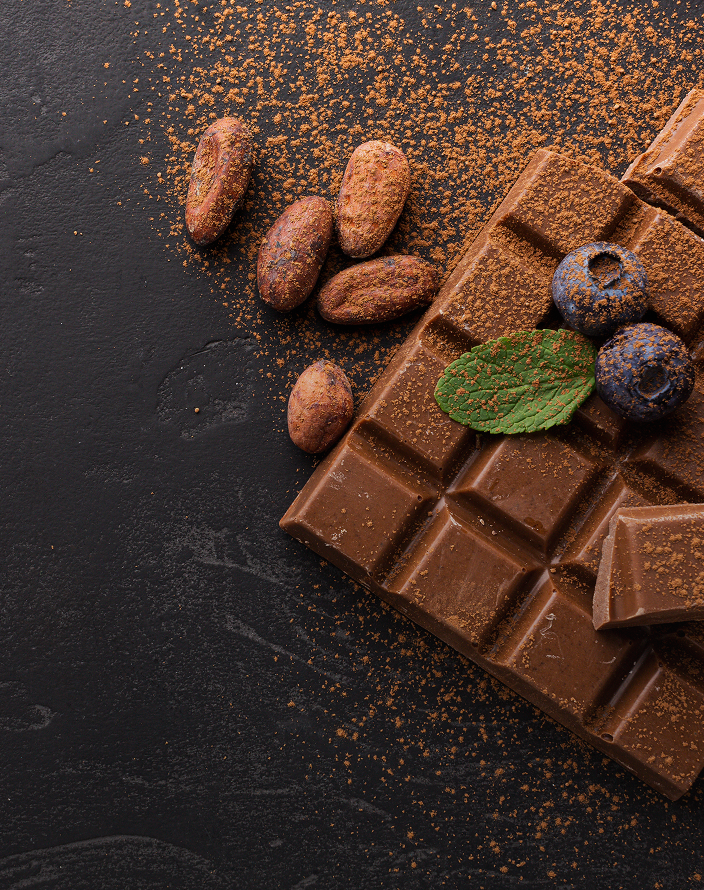
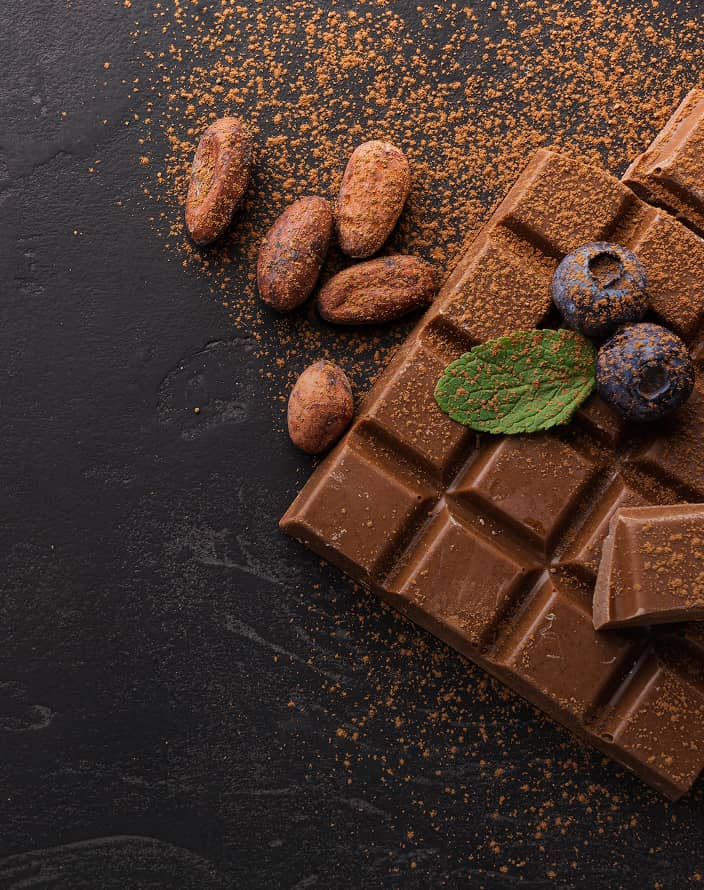
Updates

diff --git a/index.html b/index.html
@@ -1,1 +1,1 @@
-<!DOCTYPE html><html lang="en"><head><meta charset="utf-8"><meta name="viewport" content="width=device-width, initial-scale=1.0"><title>Simply Chocolate</title><link rel="preconnect" href="https://fonts.googleapis.com"><link rel="preconnect" href="https://fonts.gstatic.com" crossorigin><link href="https://fonts.googleapis.com/css2?family=Montserrat:ital,wght@0,100..900;1,100..900&display=swap" rel="stylesheet"><link rel="stylesheet" href="index.99e1d739.css"><link rel="icon" href="favicon.11899e16.ico" type="image/x-icon"><link rel="stylesheet" href="https://cdnjs.cloudflare.com/ajax/libs/intl-tel-input/17.0.8/css/intlTelInput.css"></head><body> <header> <div class="header" id="home"> <div class="logo-wrapper"> <h1 class="title">Simply Chocolate</h1> <img src="logo.abec6a52.svg" alt="Logo" class="logo"> </div> <div class="sidebar" id="sidebar"> <div class="sidebar-content" id="sidebar-content"> <button class="close-icon" id="close-icon"> <img src="close.4ac8dd92.svg" alt="close-button"> </button> <div class="sidebar-list"> <a href="#home">Home</a> <a href="#how-its-made">How it's made?</a> <a href="#products">Our products</a> <a href="#top-sellers">Top sellers</a> <a href="#Chocolate-loved">Chocolate is loved</a> </div> <div class="social-icons" id="social-icons"> <a href="https://www.instagram.com/"> <img src="instagram.1459f6dd.svg" alt="instagram"> </a> <a href="https://www.twitter.com/"> <img src="twitter.3af4ec2a.svg" alt="twitter"> </a> </div> <div class="social-icons-desktop" id="social-icons-desktop"> <a href="https://www.instagram.com/"> <img src="instagram-desktop.ea8d8111.svg" alt="instagram"> </a> <a href="https://www.twitter.com/"> <img src="twitter-desktop.95f7ec95.svg" alt="twitter"> </a> </div> </div> </div> <button id="toggle-button" class="toggle-button"> <img src="menu.eca5c181.svg" alt="menu"> </button> </div> <section class="hero"> <div class="hero-content"> <div class="hero-content-wrapper"> <p class="hero-pharagraph"> Treat yourself or a loved one to our finest ingredients for a moment of pure delight </p> </div> <div class="hero-btn"> <div> <button class="buy-now-btn" id="open-modal-btn">Buy now</button> <div class="scroll-down-container"> scroll down <button id="scroll-down-btn" class="scroll-down-btn"> <img src="scroll.a1aea944.svg"> </button> </div> </div> <div class="buy-now-modal" id="buy-now-modal"> <div class="buy-now-modal-content"> <span class="buy">BUY </span> <span>NOW</span> <button class="close-modal" id="close-modal"> <img src="buy-now-modal-close.46337172.svg" alt="close-button"> </button> <div class="products-list"> <div class="modal-img"> <img src="peanuts-chocolate.3fbff1fe.png" alt="peanuts-chocolate"> <span>100g</span> </div> <div class="modal-img"> <img src="milk-chocolate.8179e0b2.png" alt="milk-chocolate"> <span>100g</span> </div> <div class="modal-img"> <img src="dark-chocolate.01a8f24a.png" alt="dark-chocolate"> <span>100g</span> </div> </div> <div> <form class="modal-form"> <div class="input-wrapper"> <label for="name"> Personal Information</label> <input type="text" id="name" name="name" placeholder="Enter your name" required> <label for="surname"></label> <input type="text" id="surname" name="surname" placeholder="Enter your surname" required> </div> <div class="input-wrapper"> <label for="email">Email</label> <input type="email" id="email" name="email" placeholder="Enter your email" required> </div> <div class="input-wrapper"> <label for="phone">Phone Number</label> <input type="tel" id="phone" name="number" placeholder="Enter your phone number" required> </div> <div class="input-wrapper"> <label for="card-number">Card Number</label> <input type="tel" id="card-number" name="card-number" placeholder="Enter your card number" required> </div> <div class="input-wrapper"> <label for="comment">Comment</label> <textarea id="comment" name="comment" rows="2" placeholder="Enter your comment"></textarea> </div> <button type="submit">Submit</button> </form> </div> </div> </div> <a><button class="how-its-made-btn">How it's made?</button></a> </div> </div> <div class="header-img"> <picture> <source srcset="header-img-desktop.df1a9b07.png" media="(min-width: 1280px)"> <source srcset="header-img-tablet.06964500.png" media="(min-width: 768px)"> <img src="header-img-mobile.e75138c7.png" alt="Responsive Image"> </picture> </div> </section> </header> <div id="target-section" class="target-section">  </div>  <script src="https://cdnjs.cloudflare.com/ajax/libs/intl-tel-input/17.0.8/js/intlTelInput.min.js"></script> <script type="module" src="index.73f180fa.js"></script> </body></html>
+<!DOCTYPE html><html lang="en"><head><meta charset="utf-8"><meta name="viewport" content="width=device-width, initial-scale=1.0"><title>Simply Chocolate</title><link rel="preconnect" href="https://fonts.googleapis.com"><link rel="preconnect" href="https://fonts.gstatic.com" crossorigin><link href="https://fonts.googleapis.com/css2?family=Montserrat:ital,wght@0,100..900;1,100..900&display=swap" rel="stylesheet"><link rel="stylesheet" href="index.cd0f977e.css"><link rel="icon" href="favicon.11899e16.ico" type="image/x-icon"><link rel="stylesheet" href="https://cdnjs.cloudflare.com/ajax/libs/intl-tel-input/17.0.8/css/intlTelInput.css"></head><body> <header> <div class="header" id="home"> <div class="logo-wrapper"> <h1 class="title">Simply Chocolate</h1> <img src="logo.abec6a52.svg" alt="Logo" class="logo"> </div> <div class="sidebar" id="sidebar"> <div class="sidebar-content" id="sidebar-content"> <button class="close-icon" id="close-icon"> <img src="close.4ac8dd92.svg" alt="close-button"> </button> <div class="sidebar-list"> <a href="#home">Home</a> <a href="#how-its-made">How it's made?</a> <a href="#products">Our products</a> <a href="#top-sellers">Top sellers</a> <a href="#Chocolate-loved">Chocolate is loved</a> </div> <div class="social-icons" id="social-icons"> <a href="https://www.instagram.com/"> <img src="instagram.1459f6dd.svg" alt="instagram"> </a> <a href="https://www.twitter.com/"> <img src="twitter.3af4ec2a.svg" alt="twitter"> </a> </div> <div class="social-icons-desktop" id="social-icons-desktop"> <a href="https://www.instagram.com/"> <img src="instagram-desktop.ea8d8111.svg" alt="instagram"> </a> <a href="https://www.twitter.com/"> <img src="twitter-desktop.95f7ec95.svg" alt="twitter"> </a> </div> </div> </div> <button id="toggle-button" class="toggle-button"> <img src="menu.eca5c181.svg" alt="menu"> </button> </div> <section class="hero"> <div class="hero-content"> <div class="hero-content-wrapper"> <p class="hero-pharagraph"> Treat yourself or a loved one to our finest ingredients for a moment of pure delight </p> </div> <div class="hero-btn"> <div> <button class="buy-now-btn" id="open-modal-btn">Buy now</button> <div class="scroll-down-container"> scroll down <button id="scroll-down-btn" class="scroll-down-btn"> <img src="scroll.a1aea944.svg"> </button> </div> </div> <div class="buy-now-modal" id="buy-now-modal"> <div class="buy-now-modal-content"> <span class="buy">BUY </span> <span>NOW</span> <button class="close-modal" id="close-modal"> <img src="buy-now-modal-close.46337172.svg" alt="close-button"> </button> <div class="products-list"> <div class="modal-img"> <img src="peanuts-chocolate.3fbff1fe.png" alt="peanuts-chocolate"> <span>100g</span> </div> <div class="modal-img"> <img src="milk-chocolate.8179e0b2.png" alt="milk-chocolate"> <span>100g</span> </div> <div class="modal-img"> <img src="dark-chocolate.01a8f24a.png" alt="dark-chocolate"> <span>100g</span> </div> </div> <div> <form class="modal-form"> <div class="input-wrapper personal-info"> <div class="input-group"> <label for="name"> Personal Information</label> <input type="text" id="name" name="name" placeholder="Enter your name" required> </div> <div class="input-group"> <label for="surname"></label> <input type="text" id="surname" name="surname" placeholder="Enter your surname" required> </div> </div> <div class="email input-wrapper"> <label for="email">Email</label> <input type="email" id="email" name="email" placeholder="Enter your email" required> </div> <div class="input-wrapper phone"> <label for="phone">Phone Number</label> <input type="tel" id="phone" name="number" placeholder="Enter your phone number" required> </div> <div class="card input-wrapper"> <label for="card-number">Card Number</label> <input type="tel" id="card-number" name="card-number" placeholder="Enter your card number" required> </div> <div class="comment input-wrapper"> <label for="comment">Comment</label> <textarea id="comment" name="comment" rows="2" placeholder="Enter your comment"></textarea> </div> <button type="submit">Submit</button> </form> </div> </div> </div> <a><button class="how-its-made-btn">How it's made?</button></a> </div> </div> <div class="header-img"> <picture> <source srcset="header-img-desktop.681a6c5e.png" media="(min-width: 1280px)"> <source srcset="header-img-tablet.973b7277.png" media="(min-width: 768px)"> <img src="header-img-mobile.b26bb3be.png" alt="Responsive Image"> </picture> </div> </section> </header> <div id="target-section" class="target-section">  </div>  <script src="https://cdnjs.cloudflare.com/ajax/libs/intl-tel-input/17.0.8/js/intlTelInput.min.js"></script> <script type="module" src="index.73f180fa.js"></script> </body></html>

diff --git a/index.cd0f977e.css b/index.cd0f977e.css
@@ -1,0 +1,2 @@
+*{box-sizing:border-box;margin:0;padding:0}body{background-color:var(--primary-color);justify-content:center;font-family:Montserrat,sans-serif;display:flex}:root{--primary-color:#fafafa;--secondary-color:#1e1823;--accent-color:#fd9222}a{cursor:pointer;color:inherit;text-decoration:none}.header{justify-content:center;gap:101px;padding:20px;display:flex}.logo-wrapper{align-items:center;gap:5px;display:flex}.logo{width:10.98px;height:14.8px}.title{font-size:14px;font-style:italic;font-weight:700;line-height:18px}.sidebar{background-color:var(--secondary-color);width:34vh;height:100vh;color:var(--primary-color);z-index:15;justify-content:center;align-items:center;transition:right .5s;display:flex;position:fixed;top:0;right:-520px}.sidebar-content{flex-direction:column;align-items:center;display:flex}.sidebar-list{white-space:nowrap;flex-direction:column;gap:24px;display:flex}.sidebar a{transition:color .3s}.sidebar a:hover{color:var(--accent-color)}.close-icon{cursor:pointer;background-color:#0000;border:none;border-radius:5px;width:28px;height:28px;transition:transform .3s;display:none;position:fixed;top:15px;right:15px}.close-icon:hover{transform:scale(1.1)rotate(90deg)}.social-icons{gap:16px;display:none;position:fixed;bottom:20px;right:108px}.social-icons-desktop{display:none}.social-icons img{border-radius:5px;width:20px;height:20px;padding:1px;transition:background-color .3s,color .3s}.social-icons img:hover{background-color:var(--accent-color)}.toggle-button{cursor:pointer;background-color:#0000;border:none;width:21px;height:18px;transition:transform .3s}.toggle-button:hover{transform:scale(1.1)}.hero{justify-content:center;display:flex;position:relative}.header-img{width:335px}.header-img img{object-fit:cover;border-radius:30px;width:100%;height:auto;display:block}.hero-content{z-index:1;flex-direction:column;align-items:center;gap:32px;width:100%;max-width:300px;display:flex;position:absolute;bottom:224px}.hero-pharagraph{max-width:300px;color:var(--primary-color);text-align:center;text-align:left;padding:25px;font-size:20px;font-weight:500;line-height:24px}.hero-btn{flex-direction:row;justify-content:center;gap:14px;display:flex}.buy-now-btn{width:110px;height:41px;color:var(--primary-color);background-color:var(--accent-color);cursor:pointer;border:none;border-radius:50px;font-size:14px;font-weight:600;transition:transform .3s}.buy-now-btn:hover,.how-its-made-btn:hover{transform:scale(1.1)}.how-its-made-btn{width:149px;height:41px;color:var(--primary-color);border:1px solid var(--primary-color);cursor:pointer;background-color:#0000;border-radius:50px;font-size:14px;font-weight:600;transition:transform .3s}.scroll-down-container{color:var(--primary-color);align-items:center;gap:12px;font-size:12px;display:flex;position:absolute;bottom:-118px;left:30px}.scroll-down-btn{cursor:pointer;border:none;border-radius:14px;width:28px;height:28px}.buy-now-modal{z-index:5;backdrop-filter:blur(5px);background:#363636cc;width:100%;height:100%;display:none;position:fixed;top:0;left:0;overflow:hidden}.buy-now-modal-content{background-color:var(--primary-color);text-align:center;border:1px solid #cec8c8;border-radius:15px;width:90vw;max-width:400px;height:auto;max-height:95vh;margin:20px auto;padding:10px;position:relative;overflow-y:auto}.buy-now-modal-content::-webkit-scrollbar{width:5px}.buy-now-modal-content::-webkit-scrollbar-thumb{background:#999;border-radius:10px}.buy-now-modal-content::-webkit-scrollbar-track{margin-top:10px;margin-bottom:10px}.buy-now-modal-content span{font-size:20px}.buy{color:var(--accent-color)}.close-modal{cursor:pointer;background-color:#0000;border:none;font-size:24px;position:absolute;top:10px;right:15px}.products-list{background-color:#0000;border:none;flex-direction:column;justify-content:center;align-items:center;gap:5px;margin-top:15px;display:flex}.modal-img{cursor:pointer;background-color:#fff;border:1px solid #cec8c8;border-radius:20px;align-items:center;gap:110px;transition:transform .3s;display:flex}.modal-img:hover{border:1px solid var(--accent-color);transform:scale(1.1)}.modal-img span{background-color:var(--primary-color);border:1px solid #ededed;border-radius:100px;width:70px;height:29px;margin-right:10px;padding:5px;font-size:14px}.modal-form{flex-direction:column;justify-content:center;align-items:center;gap:10px;width:100%;margin-top:18px;display:flex}.modal-form label{color:#333;font-size:14px;font-weight:500}.modal-form input{border:1px solid #cec8c8;border-radius:8px;width:263px;height:45px;padding-left:18px;font-size:14px;display:block}.modal-form textarea{border:1px solid #cec8c8;border-radius:8px;width:263px;padding-left:18px;font-size:16px;display:block}.modal-form input::placeholder,textarea::placeholder{color:#aaa}.modal-form button{width:109px;height:41px;color:var(--primary-color);background-color:var(--accent-color);cursor:pointer;border:none;border-radius:50px;margin-bottom:5px}.input-wrapper{flex-direction:column;align-items:baseline;gap:2px;display:flex}.iti__country-list{width:261px}@media screen and (width>=768px){.header{justify-content:space-evenly;gap:216px}.header-img{width:704px}.scroll-down-container{width:100%;font-size:14px;bottom:6px;left:365px}.hero-content{align-items:flex-end;bottom:40px}.hero-pharagraph{width:100%;max-width:none;margin-left:280px;font-size:28px;line-height:34px}.hero-btn{margin-right:205px}.hero-content-wrapper{flex-direction:column;align-items:flex-end;display:flex}.buy-now-modal-content{max-width:600px;padding:15px}.products-list{flex-direction:row;gap:15px}.modal-img{flex-direction:column;gap:20px;width:160px;height:196px;padding:10px}.modal-img img{width:120px}.personal-info{flex-direction:row;align-items:flex-end;gap:20px}.personal-info input{width:246px;height:66px}.input-group{flex-direction:column;gap:6px;display:flex}.input-group label{padding-right:87px}.email input,.phone input,.card input,.comment textarea{width:500px}}@media screen and (width>=1280px){.header{gap:0}.header-img{width:1136px}.logo-wrapper{width:75%}.toggle-button{display:none}.sidebar{z-index:0;background-color:#0000;justify-content:center;align-items:center;width:100%;height:auto;display:flex;position:static}.sidebar-content{flex-direction:row;gap:40px}.sidebar-list{color:var(--secondary-color);flex-direction:row;display:flex}.sidebar-list a{transition:transform .3s}.sidebar-list a:hover{transform:scale(1.2)}.hero-content-wrapper{justify-content:center;min-width:400px;display:flex}.scroll-down-container{left:543px}.hero-btn{margin-right:410px}.hero-pharagraph{width:100%;max-width:88%;margin-right:150px}.social-icons{display:none}.social-icons-desktop{align-items:center;gap:16px;display:flex}.social-icons-desktop img{width:20px;height:18px;transition:transform .3s}.social-icons-desktop img:hover{transform:scale(1.2)}}
+/*# sourceMappingURL=index.cd0f977e.css.map */

diff --git a/index.4d663569.css b/index.4d663569.css
@@ -150,6 +150,7 @@ a {
 }
 
 .header-img img {
+  object-fit: cover;
   border-radius: 30px;
   width: 100%;
   height: auto;
@@ -258,7 +259,7 @@ a {
   height: auto;
   max-height: 95vh;
   margin: 20px auto;
-  padding: 25px;
+  padding: 10px;
   position: relative;
   overflow-y: auto;
 }
@@ -432,6 +433,53 @@ a {
     flex-direction: column;
     align-items: flex-end;
     display: flex;
+  }
+
+  .buy-now-modal-content {
+    max-width: 600px;
+    padding: 15px;
+  }
+
+  .products-list {
+    flex-direction: row;
+    gap: 15px;
+  }
+
+  .modal-img {
+    flex-direction: column;
+    gap: 20px;
+    width: 160px;
+    height: 196px;
+    padding: 10px;
+  }
+
+  .modal-img img {
+    width: 120px;
+  }
+
+  .personal-info {
+    flex-direction: row;
+    align-items: flex-end;
+    gap: 20px;
+  }
+
+  .personal-info input {
+    width: 246px;
+    height: 66px;
+  }
+
+  .input-group {
+    flex-direction: column;
+    gap: 6px;
+    display: flex;
+  }
+
+  .input-group label {
+    padding-right: 87px;
+  }
+
+  .email input, .phone input, .card input, .comment textarea {
+    width: 500px;
   }
 }
 
